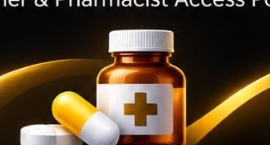
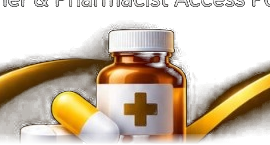
fix(ui): eliminate black box on pills accent, fix input autofill styling, and mask background ghost text

diff --git a/frontend/src/App.css b/frontend/src/App.css
@@ -2911,7 +2911,7 @@ body {
   position: relative;
   background-color: #070709;
   background-image: 
-    radial-gradient(circle at 50% 25%, rgba(10, 10, 12, 0.5) 0%, rgba(5, 5, 8, 0.88) 75%),
+    radial-gradient(ellipse 480px 620px at 50% 50%, #070709 0%, #070709 46%, rgba(7, 7, 9, 0.85) 75%, transparent 100%),
     url('/login-bg.jpg');
   background-position: center center;
   background-size: cover;
@@ -3044,19 +3044,20 @@ body {
 
 .eyerus-pills-accent-wrap {
   position: absolute;
-  top: -54px;
+  top: -56px;
   left: 50%;
   transform: translateX(-50%);
   z-index: 15;
   pointer-events: none;
-  width: 160px;
+  width: 168px;
 }
 
 .eyerus-pills-accent-img {
   width: 100%;
   height: auto;
   display: block;
-  filter: drop-shadow(0 0 20px rgba(251, 191, 36, 0.6));
+  mix-blend-mode: screen;
+  filter: drop-shadow(0 0 16px rgba(251, 191, 36, 0.5));
 }
 
 /* 4. Glowing Gold Card Inner */
@@ -3068,6 +3069,7 @@ body {
   border-radius: 32px;
   box-shadow: 
     0 0 35px rgba(251, 191, 36, 0.5), 
+    0 -6px 20px rgba(251, 191, 36, 0.3),
     inset 0 0 20px rgba(251, 191, 36, 0.2), 
     0 30px 80px rgba(0, 0, 0, 0.95);
   padding: 56px 30px 30px 30px;
@@ -3103,6 +3105,7 @@ body {
   border-radius: 20px;
   padding: 3px 18px;
   margin-bottom: 16px;
+  overflow: hidden;
   transition: all 0.25s ease;
 }
 
@@ -3120,10 +3123,10 @@ body {
 
 .eyerus-input-wrap input {
   width: 100%;
-  background: transparent;
-  border: none;
-  outline: none;
-  color: #ffffff;
+  background: transparent !important;
+  border: none !important;
+  outline: none !important;
+  color: #ffffff !important;
   font-size: 0.96rem;
   font-weight: 500;
   padding: 13px 0;
@@ -3132,6 +3135,18 @@ body {
 .eyerus-input-wrap input::placeholder {
   color: #9ca3af;
   font-weight: 400;
+}
+
+/* Prevent Chrome/Edge light-blue/white autofill background! */
+.eyerus-input-wrap input:-webkit-autofill,
+.eyerus-input-wrap input:-webkit-autofill:hover,
+.eyerus-input-wrap input:-webkit-autofill:focus,
+.eyerus-input-wrap input:-webkit-autofill:active {
+  -webkit-box-shadow: 0 0 0 1000px #1a1a1e inset !important;
+  -webkit-text-fill-color: #ffffff !important;
+  caret-color: #ffffff !important;
+  transition: background-color 5000s ease-in-out 0s;
+  border-radius: 0;
 }
 
 .eyerus-eye-toggle {
